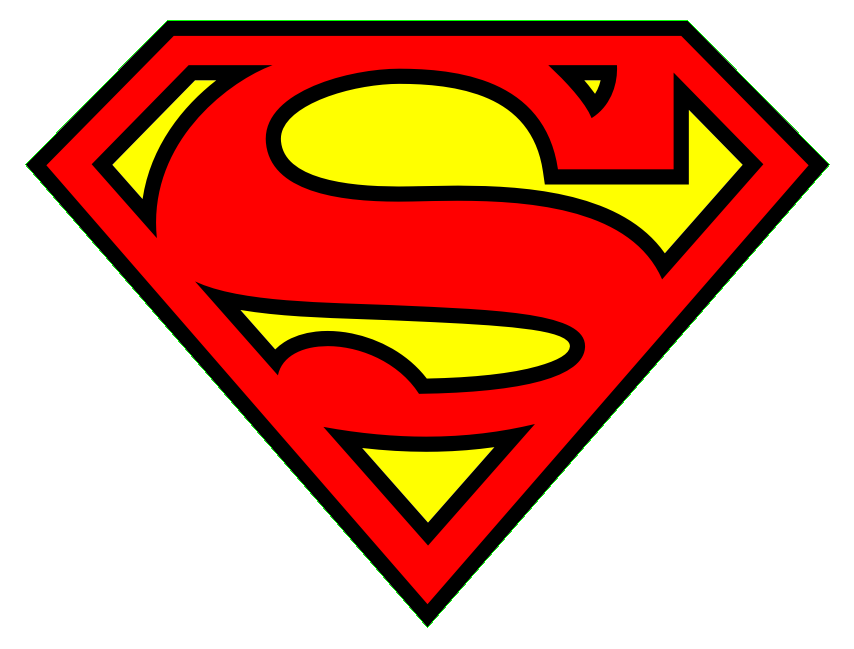
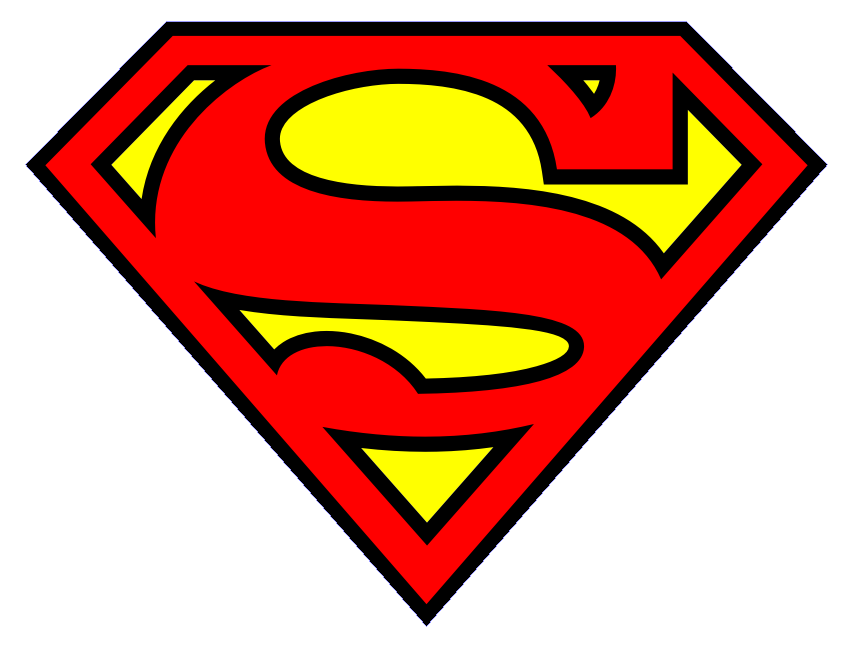
Now works with transparent borders.

diff --git a/Outline.java b/Outline.java
@@ -38,34 +38,35 @@ public class outline {
 		//Height and Width of the Image
 		int w = image.getWidth();
 		int h = image.getHeight();
+		
+		int[][] border_pixels = new int[w][h];
 	
 		//loops through all the pixels
 		for (int i = 0; i < h; i++) {
 			for (int j = 0; j < w; j++) {
-				
 				if(i == 0) {
-					if(image.getRGB(j,i) != -1) {
+					if(image.getRGB(j,i) != 0) {
 						//sets the border pixels to desired color
 						image.setRGB(j,i,border.getRGB());
 					}
 				}
 				
 				if(i == h-1) {
-					if(image.getRGB(j,i) != -1) {
+					if(image.getRGB(j,i) != 0) {
 						//sets the border pixels to desired color
 						image.setRGB(j,i,border.getRGB());
 					}
 				}
 				
 				if(j == 0) {
-					if(image.getRGB(j,i) != -1) {
+					if(image.getRGB(j,i) != 0) {
 						//sets the border pixels to desired color
 						image.setRGB(j,i,border.getRGB());
 					}
 				}
 				
 				if(j == w-1) {
-					if(image.getRGB(j,i) != -1) {
+					if(image.getRGB(j,i) != 0) {
 						//sets the border pixels to desired color
 						image.setRGB(j,i,border.getRGB());
 					}
@@ -77,24 +78,37 @@ public class outline {
 					int above = image.getRGB(j,i+1);
 					int under = image.getRGB(j,i-1);
 					
-					if(before == -1 || after == -1 || above == -1 || under == -1) {
+					if(before == 0 || after == 0 || above == 0 || under == 0) {
 						
-						if(image.getRGB(j,i) != -1) {
-						//sets the border pixels to desired color
-						image.setRGB(j,i,border.getRGB());
+						if(image.getRGB(j,i) != 0) {
+							//sets the border pixels to desired color
+							border_pixels[j][i] = 1;
 						}
 					}
 				}
-				
-				/*
-				finds the border pixels
-				if(i == 0 || i == h-1 || j == 0 || j == w-1)
-				{
-					//sets the border pixels to desired color
-					//image.setRGB(j,i,border.getRGB());
-				}*/
+			
+			
+			/*  Prints out ARGB values of all pixels */ /*
+				int pixel = image.getRGB(j, i);
+ 				int alpha = (pixel >> 24) & 0xff;
+ 				int red = (pixel >> 16) & 0xff;
+ 				int green = (pixel >> 8) & 0xff;
+ 				int blue = (pixel) & 0xff;
+				System.out.println("x,y: " + j + ", " + i);
+				System.out.println("argb: " + alpha + ", " + red + ", " + green + ", " + blue);
+			*/
 			}
 		}
+		
+		
+		for (int i = 0; i < h; i++) {
+			for (int j = 0; j < w; j++) {
+				if(border_pixels[j][i] == 1) {
+					image.setRGB(j,i,border.getRGB());
+				}
+			}
+		}
+		
 		
 		File output = new File("output.png");
 		ImageIO.write(image, "png", output);	
